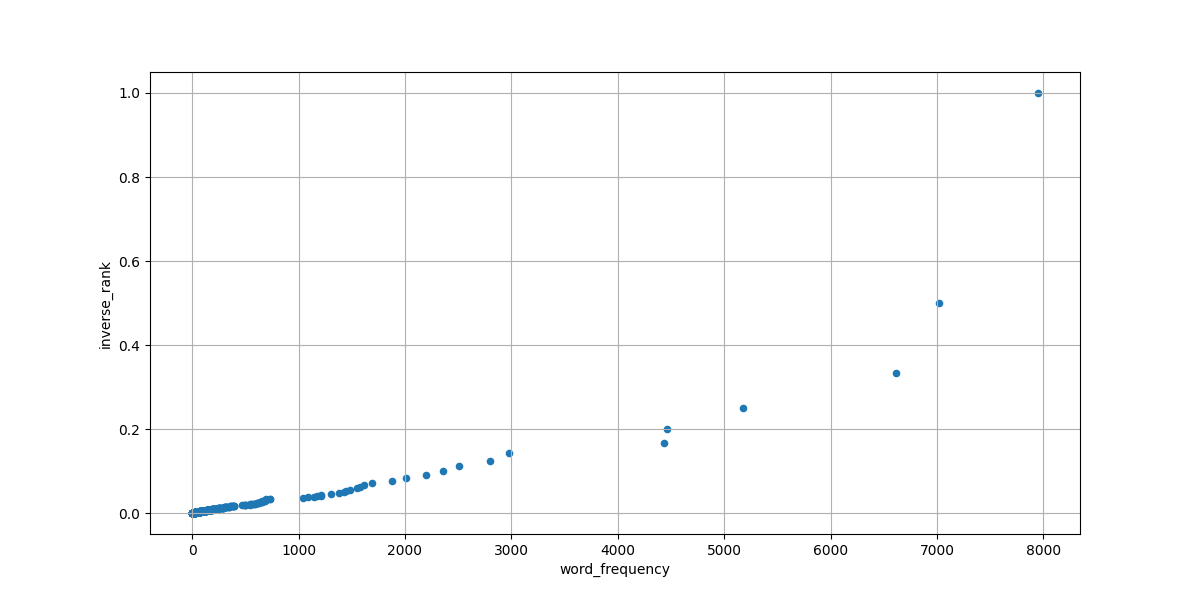
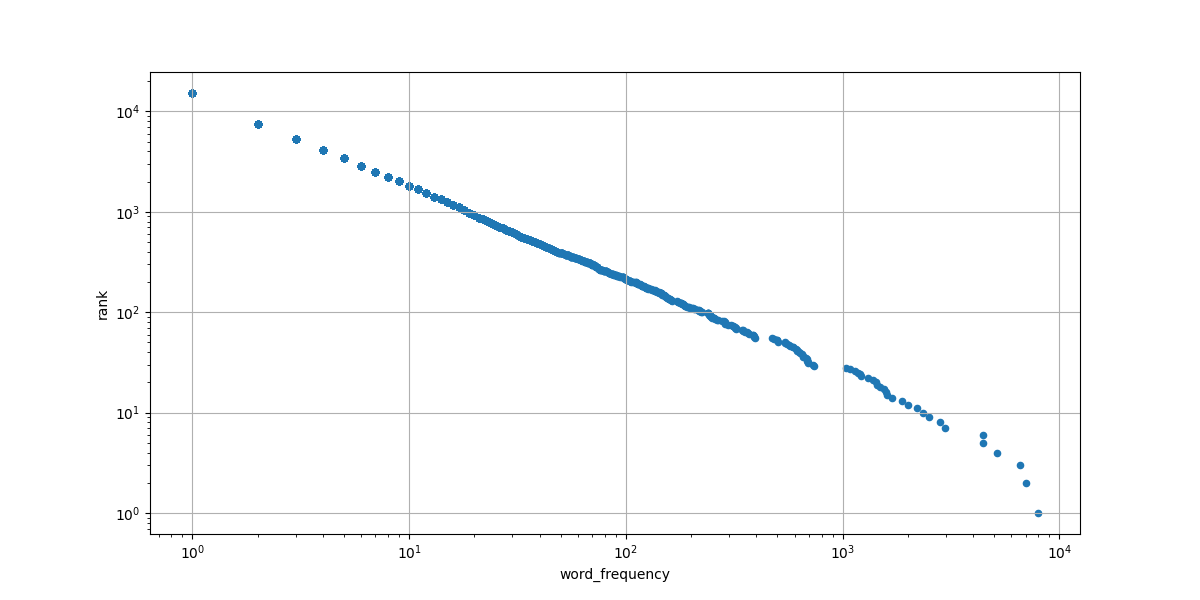
Plot rank against frequency on log-log axes

diff --git a/bin/plotcounts.py b/bin/plotcounts.py
@@ -10,9 +10,8 @@ def main(args):
                      names=('word', 'word_frequency'))
     df['rank'] = df['word_frequency'].rank(ascending=False,
                                            method='max')
-    df['inverse_rank'] = 1 / df['rank']
     scatplot = df.plot.scatter(x='word_frequency',
-                               y='inverse_rank',
+                               y='rank', loglog=True,
                                figsize=[12, 6],
                                grid=True,
                                xlim=args.xlim)
